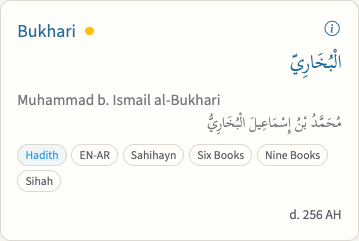
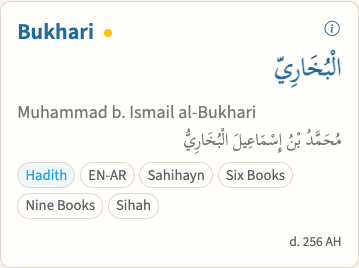
Apply Settings typography and Midnight navigation to the book catalog

diff --git a/public/static/css/style.css b/public/static/css/style.css
@@ -3423,8 +3423,7 @@ del em strong {
 }
 
 .quran-reader-modes .btn,
-.community-tabs .btn,
-.book-catalog-navigation .book-catalog-tabs .nav-link {
+.community-tabs .btn {
 	align-items: center;
 	display: inline-flex;
 	font-size: 0.68rem;
@@ -3435,8 +3434,7 @@ del em strong {
 }
 
 .quran-reader-modes .btn.active,
-.community-tabs .btn.active,
-.book-catalog-navigation .book-catalog-tabs .nav-link.active {
+.community-tabs .btn.active {
 	background-color: var(--c-accent);
 	border-color: var(--c-accent);
 	color: white;
@@ -6726,8 +6724,7 @@ del em strong {
 	}
 
 	.quran-reader-modes .btn,
-	.community-tabs .btn,
-	.book-catalog-navigation .book-catalog-tabs .nav-link {
+	.community-tabs .btn {
 		font-size: 0.62rem;
 		padding: 0.18rem 0.3rem;
 	}
@@ -13680,40 +13677,12 @@ main.book-catalog-page {
 	font-size: 1rem;
 	line-height: 1.5;
 }
-.book-catalog-navigation .chapter-toc-toolbar { justify-content: center; min-width: 0; }
-.book-catalog-navigation .book-catalog-tabs {
-	flex-wrap: nowrap; justify-content: safe center; max-width: 100%; overflow-x: auto;
-	gap: 0; margin: 0; padding: 0; border: 0; background: transparent;
-}
-.book-catalog-navigation .book-catalog-tabs .nav-item { flex: 0 0 auto; }
-.book-catalog-navigation .book-catalog-tabs .nav-item + .nav-item { margin-left: -1px; }
-.book-catalog-navigation .book-catalog-tabs .nav-link {
-	border: 1px solid var(--bs-secondary-color); border-radius: 0;
-	margin-bottom: 0; background: transparent; color: var(--bs-secondary-color);
-	text-decoration: none;
-}
-.book-catalog-navigation .book-catalog-tabs .nav-item:first-child .nav-link { border-radius: .25rem 0 0 .25rem; }
-.book-catalog-navigation .book-catalog-tabs .nav-item:last-child .nav-link { border-radius: 0 .25rem .25rem 0; }
-.book-catalog-navigation .book-catalog-tabs .nav-link:not(.active):hover,
-.book-catalog-navigation .book-catalog-tabs .nav-link:not(.active):focus-visible {
-	background: var(--bs-secondary-color); color: var(--bs-body-bg);
-}
-.book-catalog-navigation .book-catalog-tabs .nav-link.active { position: relative; z-index: 1; }
-main.book-catalog-page .tafsir-book-title-line {
-	font-size: 1rem !important;
-	line-height: 1.5;
-}
-main.book-catalog-page .tafsir-book-title-line:lang(ar),
-main.book-catalog-page .tafsir-book-title-line :lang(ar) {
-	font-size: 1.15rem !important;
-	line-height: 1.7;
-}
 .book-catalog-compact .tafsir-book-list { gap: 1.5rem; }
 .book-catalog-category[hidden], .book-catalog-compact [hidden], .book-catalog-dialog [hidden] { display: none !important; }
 .book-catalog-grid { display: grid; grid-template-columns: minmax(0, 1fr); gap: .85rem; }
 .book-catalog-category-title {
 	display: flex; justify-content: space-between; gap: 1rem;
-	font-size: 1rem !important; font-weight: 600; margin: 0; padding-bottom: .5rem;
+	font-size: var(--ux-section-size, 1rem) !important; font-weight: var(--ux-heading-weight, 600); margin: 0; padding-bottom: .5rem;
 	border-bottom: 1px solid var(--bs-border-color);
 }
 .book-catalog-compact .tafsir-book-row {
@@ -13743,7 +13712,7 @@ main.book-catalog-page .tafsir-book-title-line :lang(ar) {
 .book-catalog-pill {
 	display: inline-block; max-width: 100%; padding: .1rem .4rem;
 	border: 1px solid var(--bs-border-color); border-radius: 1rem;
-	font-size: .65rem; line-height: 1.4; color: var(--bs-secondary-color); overflow-wrap: anywhere;
+	font-size: var(--ux-caption-size, .65rem); line-height: 1.4; color: var(--bs-secondary-color); overflow-wrap: anywhere;
 }
 .book-catalog-type-pill { color: var(--c-accent); background: var(--c-primary-soft-08); }
 .book-catalog-summary .tafsir-book-title-pair,
@@ -13752,7 +13721,7 @@ main.book-catalog-page .tafsir-book-title-line :lang(ar) {
 .book-catalog-summary .tafsir-book-title-pair > [lang="ar"] { grid-column: 1 / -1; }
 .book-catalog-summary .tafsir-book-title-line a { text-decoration: none; }
 .book-catalog-summary .tafsir-book-title-line a:hover { text-decoration: underline; }
-.book-catalog-summary .tafsir-book-meta { font-size: .85rem; line-height: 1.5; }
+.book-catalog-summary .tafsir-book-meta { font-size: 1rem; line-height: 1.5; }
 .book-catalog-details-button {
 	align-self: baseline; padding: 0 .1rem; line-height: 1.5;
 	border: 0; background: transparent; color: var(--c-accent); font-size: .85rem;

diff --git a/public/static/css/books.css b/public/static/css/books.css
@@ -13,10 +13,32 @@
 .book-catalog-page .book-catalog-compact .tafsir-book-row, .book-catalog-page.book-catalog-compact .tafsir-book-row { background: var(--ux-surface); }
 .book-catalog-page .book-catalog-summary a, .book-catalog-page .book-catalog-details-button { color: var(--ux-accent); }
 .book-catalog-summary .tafsir-book-title-pair { align-items: start; }
-body:has(.catalog-tools) .book-catalog-navigation .book-catalog-tabs { gap: .2rem; padding: .2rem; background: var(--bs-tertiary-bg); border-radius: .5rem; }
-body:has(.catalog-tools) .book-catalog-navigation .nav-item { margin: 0; }
-body:has(.catalog-tools) .book-catalog-navigation .nav-link { display: grid; place-items: center; min-height: 2.4rem; padding: .3rem .65rem; border: 0; border-radius: .4rem; font: 600 .95rem/1.25 'Source Sans 3', sans-serif; color: var(--bs-secondary-color); background: transparent; }
-body:has(.catalog-tools) .book-catalog-navigation .nav-link:is(.active,:hover,:focus-visible) { color: var(--ivory-accent,var(--c-link-dark)); background: var(--bs-body-bg); }
+
+.book-catalog-page > h1 { --content-size-h1: var(--ux-title-size); font-family: inherit; font-weight: var(--ux-heading-weight); margin: 0 0 .65rem; }
+.book-catalog-summary .tafsir-book-title-line { --content-size-h3: var(--ux-item-size); font-weight: var(--ux-heading-weight); }
+.book-catalog-summary .tafsir-book-title-line:lang(ar),
+.book-catalog-summary .tafsir-book-title-line :lang(ar) { font-size: var(--ux-arabic-item-size) !important; line-height: 1.6; }
+
+.top-nav-desktop-actions a.nav-link, .book-catalog-navigation .nav-link { font: 600 1rem/1.35 var(--ux-font-ui); }
+.book-catalog-navigation .chapter-toc-toolbar { justify-content: center; min-width: 0; }
+.book-catalog-navigation .book-catalog-tabs {
+  flex-wrap: nowrap; justify-content: safe center; max-width: 100%; overflow-x: auto;
+  gap: .2rem; margin: 0; padding: .2rem; border: 0; background: var(--bs-tertiary-bg); border-radius: .5rem;
+}
+.book-catalog-navigation .nav-item { flex: 0 0 auto; }
+.book-catalog-navigation .nav-link {
+  display: grid; place-items: center; min-height: 2.4rem; padding: .3rem .65rem; margin: 0;
+  border: 0; border-radius: .4rem; font-size: 1.05rem; white-space: nowrap; color: var(--bs-secondary-color);
+}
+.book-catalog-navigation .nav-link:hover { color: var(--bs-body-color); background: var(--bs-body-bg); }
+.book-catalog-navigation .nav-link.active { background: var(--ux-midnight-fill); color: white; }
+.book-catalog-navigation .nav-link:focus-visible { outline: 2px solid var(--bs-emphasis-color); outline-offset: -2px; }
+.book-catalog-navigation .nav-link.active:focus-visible { outline-color: white; }
+
+.tafsir-group-rail { font-family: var(--ux-font-ui); }
+.tafsir-group-rail .heading-toc-book-name { font-size: 1.12rem; font-weight: 650; letter-spacing: normal; text-transform: none; }
+.tafsir-rail-group h2 { font: 600 1rem/1.35 var(--ux-font-ui); }
+.tafsir-rail-group ul { font-size: .94rem; }
 @media (max-width: 700px) {
   .catalog-facets[open] { flex-basis: 100%; }
   .book-catalog-navigation .book-catalog-tabs { justify-content: start; }

diff --git a/docs/design-system/library.html b/docs/design-system/library.html
@@ -27,9 +27,10 @@
       <article><h3>Disclosure with current value</h3><img src="settings/disclosures.png" alt="Reading and listening rows with their saved values"><p>Group settings by task. Use a native details/summary row with a short label, current value or count, and a chevron. Place the summary below the label on narrow screens. Opening one row keeps the others available.</p></article>
     </div>
   </section>
-  <section id="catalog"><h2>Book discovery</h2><div class="grid">
+  <section id="catalog"><h2>Book discovery</h2><p>Books adopts the Settings hierarchy. Use Source Sans 3 for collection and group headings, catalog navigation and the right-hand index. Arabic titles retain their script face. The selected collection uses the shared Midnight fill. Book links use the Ivory accent.</p><div class="grid">
       <article><h3>Collection navigation &amp; local filters</h3><img src="catalog/filters.png" alt="Search books with expanded size and collection filters"><p>The six collection links live in the header. Keep search inside the catalog and group optional size, language, and classification choices under Filters. Summarize active choices on the closed disclosure. Returning from a book restores the search and filters for that history entry.</p></article>
-      <article><h3>Bilingual catalog card</h3><img src="catalog/book.png" alt="Book title and author in English and Arabic with classification and details controls"><p>Keep the canonical title link separate from the details button. Give Arabic its own direction and typeface, and keep source classifications and dates attached to their book. Escape closes details and returns focus to its opener.</p></article>
+      <article><h3>Bilingual catalog card</h3><img src="catalog/book.png" alt="Book title and author in English and Arabic with classification and details controls"><p>Use the shared item and caption sizes for titles and classifications. Keep the canonical title link separate from the details button. Give Arabic its own direction and typeface, and keep source classifications and dates attached to their book. Escape closes details and returns focus to its opener.</p></article>
+      <article><h3>Collection index</h3><img src="catalog/rail.png" alt="Sahihayn rail heading and its three book links"><p>Use mixed-case sans-serif navigation in the desktop rail. Set the collection name above the semibold group labels, with regular-weight book links beneath each group.</p></article>
     </div></section>
   <section id="choices"><h2>Choices &amp; preferences</h2>
     <div class="grid">

diff --git a/spec/bookCatalogPresentation.spec.js b/spec/bookCatalogPresentation.spec.js
@@ -18,7 +18,7 @@ async function render(template, editMode = false, records = [book], query = {}) 
   return ejs.renderFile(path.join(__dirname, '../views', template), {
     req: { admin: editMode, editMode, query }, books: records, tafsirs: records, translations: records.map(record => ({ ...record, lang: 'en' })), sharhBooks: records, mushafs: [{ ...book, href: '/quran/page/1' }],
     BookGroups, Tafsir, BookDownloads,
-    utils: { scriptAssetVersion: () => 'test', sharhDisplayName: require('../lib/SharhDisplayName').displayName, sharhAuthorSuffix: require('../lib/SharhDisplayName').authorSuffix, emptyIfNull: value => value || '', markdownToHtml: value => '<p>' + value + '</p>', quranUrl: (_req, url) => url, urlFor: (_req, url) => url, jsonLdScript: () => '' }
+    utils: { styleAssetVersion: () => 'test', scriptAssetVersion: () => 'test', sharhDisplayName: require('../lib/SharhDisplayName').displayName, sharhAuthorSuffix: require('../lib/SharhDisplayName').authorSuffix, emptyIfNull: value => value || '', markdownToHtml: value => '<p>' + value + '</p>', quranUrl: (_req, url) => url, urlFor: (_req, url) => url, jsonLdScript: () => '' }
   }, { includer: (name) => /(?:^|\/)header\.ejs$/.test(name)
     ? { template: '<nav class="navbar site-navbar fixed-top"><% if (page.context.bookCatalogInitialType) { %><%- include("book_catalog_navigation.ejs", { page }); %><% } %></nav>' }
     : /(?:head|footer|scripts|mobile_navigation)\.ejs$/.test(name) ? { template: ' ' } : undefined });

diff --git a/spec/notificationPreferencesBrowser.spec.js b/spec/notificationPreferencesBrowser.spec.js
@@ -4,7 +4,7 @@ const settle=async()=>{for(let i=0;i<20;i++)await new Promise(resolve=>setImmedi
 test('preferences page loads, saves, unsubscribes and manages author subscriptions',async()=>{
   const previous=global.settings;global.settings={site:{}};
   let html;
-  try {html=ejs.render(fs.readFileSync('views/community.ejs','utf8'),{view:'email-preferences',author:null,post:null,initial:null,unsubscribed:false,page:{title_en:'Email preferences',context:{}},utils:{scriptAssetVersion:()=>''}},{filename:path.resolve('views/community.ejs'),includer:()=>({template:' '})});}finally{global.settings=previous;}
+  try {html=ejs.render(fs.readFileSync('views/community.ejs','utf8'),{view:'email-preferences',author:null,post:null,initial:null,unsubscribed:false,page:{title_en:'Email preferences',context:{}},utils:{styleAssetVersion: () => 'test', scriptAssetVersion:()=>''}},{filename:path.resolve('views/community.ejs'),includer:()=>({template:' '})});}finally{global.settings=previous;}
   const dom=new JSDOM(html,{url:'https://example.test/community/email-preferences',runScripts:'outside-only',pretendToBeVisual:true}),w=dom.window,d=w.document;
   w.quranApiPath=p=>'/api'+p;w.hadithAuth={getToken:async()=>'token'};
   let preferences={enabled:true,likes:true,reflections:true,replies:true,reactions:true,articles:true};

diff --git a/lib/Utils.js b/lib/Utils.js
@@ -2130,7 +2130,7 @@ class Utils {
 	static styleAssetVersion() {
 		if (!Utils.STYLE_ASSET_VERSION) {
 			try {
-				const stylesheet = Buffer.concat(['style.css', 'community.css', 'quran-navigation.css', 'markdown-content.css'].map(filename => fsSync.readFileSync(path.join(__dirname, '../public/static/css', filename))));
+				const stylesheet = Buffer.concat(['style.css', 'community.css', 'quran-navigation.css', 'markdown-content.css', 'ux-foundations.css', 'books.css'].map(filename => fsSync.readFileSync(path.join(__dirname, '../public/static/css', filename))));
 				Utils.STYLE_ASSET_VERSION = `${Utils.assetVersionSuffix()}-${crypto.createHash('sha256').update(stylesheet).digest('hex').substring(0, 12)}`;
 			} catch (_err) {
 				Utils.STYLE_ASSET_VERSION = Utils.assetVersionSuffix();
@@ -2144,7 +2144,7 @@ class Utils {
 			return html;
 		return Utils.rewriteStaticAssetUrls(html).toString()
 			.replace(
-				/(<link\s+rel="stylesheet"\s+href="\/static\/css\/(?:style|community|quran-navigation)\.css)(?:\?v=[^"]*)?("[^>]*>)/g,
+				/(<link\s+rel="stylesheet"\s+href="\/static\/css\/(?:style|community|quran-navigation|ux-foundations|books)\.css)(?:\?v=[^"]*)?("[^>]*>)/g,
 				`$1?v=${Utils.styleAssetVersion()}$2`
 			)
 			.replace(

diff --git a/public/static/css/ux-foundations.css b/public/static/css/ux-foundations.css
@@ -5,8 +5,15 @@
   font-display: swap;
 }
 
-.ux-system {
+:root {
   --ux-font-ui: 'Source Sans 3', system-ui, sans-serif;
+  --ux-item-size: 1.24rem;
+  --ux-arabic-item-size: 1.5rem;
+  --ux-caption-size: .82rem;
+  --ux-midnight-fill: linear-gradient(110deg, #535c9b, #323c6b 68%, #273053);
+}
+
+.ux-system {
   --ux-accent: var(--c-link-dark, #2379b1);
   --ux-text: var(--bs-body-color, #212529);
   --ux-muted: var(--bs-secondary-color, #595c5f);
@@ -62,7 +69,7 @@
 .ux-system .ux-primary-action {
   color: white;
   border-color: #343a67;
-  background: linear-gradient(110deg, #535c9b, #323c6b 68%, #273053);
+  background: var(--ux-midnight-fill);
   box-shadow: inset 0 1px #ffffff30;
 }
 .ux-system .ux-secondary-action { background: #eaeaf5; color: #444d85; text-decoration: none; }

diff --git a/skills/hadithdb-ux-audit/SKILL.md b/skills/hadithdb-ux-audit/SKILL.md
@@ -24,8 +24,11 @@ Concrete Settings comparisons to carry forward:
 - **Switches and actions.** Compare a checked catalog switch with connected Drive and auto-recharge switches. Check the track color, size and visible label. In Drive, exercise disconnected and connected states to reveal the primary Connect, secondary Import, and lightweight folder and disconnect actions.
 - **Control-to-label spacing.** Measure from the painted control edge to the first line of label text in the rendered UI. Padding on a wrapper can be canceled by a floated input or negative margin. Compare a short label with a wrapping one at phone width and enlarged text. Check that continuation lines align with the first word, the switch stays beside the first line, and clicking the label still toggles it.
 - **Round trips and feedback.** Enter a shared destination from each parent route, then use its visible Back link. Verify the originating panel is open and visible, including its Quran or beta variant. Where one page mixes explicit-save and immediate actions, verify each result appears beside the controls that triggered it.
+- **Type hierarchy across routes.** Compare a catalog with the accepted reference page at identical desktop and phone widths. Measure computed type on global and local navigation, rail titles and links, page and group headings, item titles in each script, metadata and badges. Compare family, size, weight and line height on the painted text. Check that navigation reads as interface text and that Arabic retains its script face. Inspect the rendered page for headings that read like ordinary rows even when their tap targets are large.
 - **Shared navigation.** On routes with a fixed header, measure how much of the first phone viewport remains for content. Open a later collection directly and check that its active tab is visible. At the end of the list, check footer links against persistent bottom controls.
 - **Toolbars.** Open Reciters, Translations, and Tafsir together. Compare the location of the count or description, Enable all, and the Tile / Full selector where present. Check the alignment again when the rail moves above the content and when all entries are enabled.
+
+Trace the CSS hierarchy from foundation token to component to route layout. Search for existing rules and all consuming templates before adding a selector. Consolidate competing definitions at their owner, scope route-specific layout locally, and check the winning declarations in the browser on each affected surface. Verify that versioned stylesheets pick up the change.
 
 Reuse the accepted component or shared CSS owner when the tasks match. Preserve distinctions such as immediate versus explicit save, Quran script typography, and semantic links versus buttons. For a proposed visual direction, record it as a candidate until selected. When a pattern is finalized, add its real specimen, states, implementation hook and consumers to the library, or extend its existing entry.
 
